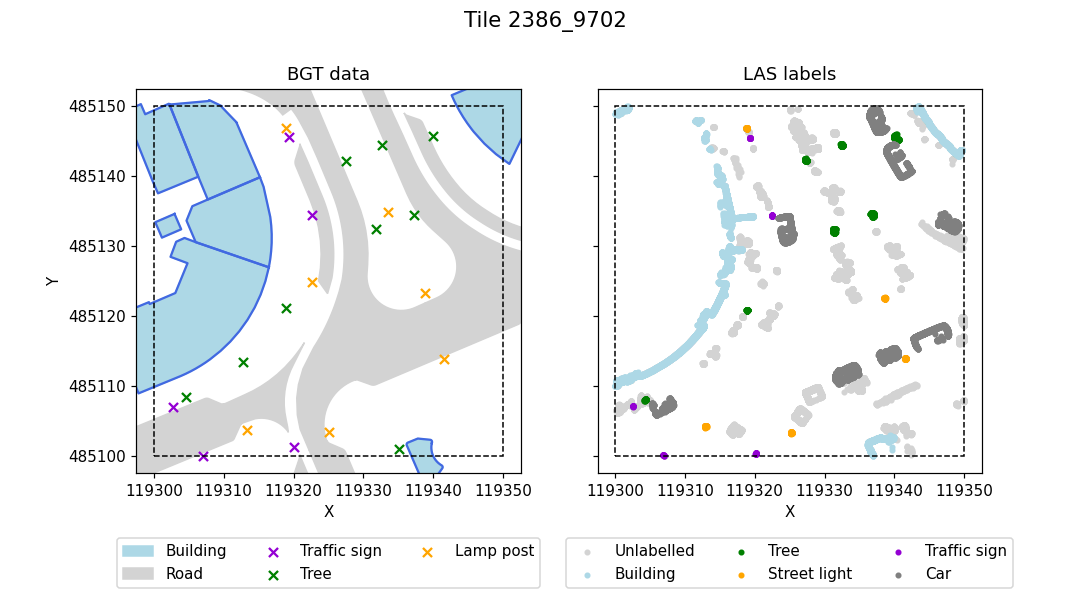
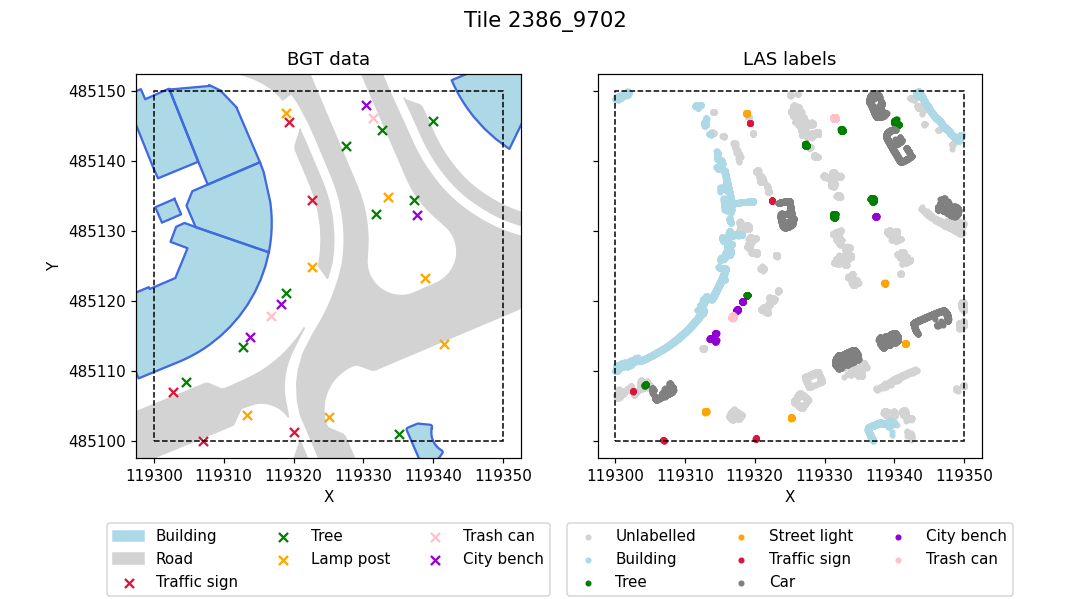
Add street furniture code to notebook 0

diff --git a/src/utils/plot_utils.py b/src/utils/plot_utils.py
@@ -22,20 +22,26 @@ bgt_labels = {'boom': 'Tree',
               'lichtmast': 'Lamp post',
               'verkeersbord': 'Traffic sign',
               'pand': 'Building',
-              'wegdeel': 'Road'}
+              'wegdeel': 'Road',
+              'bank': 'City bench',
+              'afvalbak': 'Trash can'}
 bgt_colors = {'boom': 'green',
               'lichtmast': 'orange',
-              'verkeersbord': 'darkviolet',
+              'verkeersbord': 'crimson',
               'pand': 'lightblue',
               'pand_poly': 'royalblue',
-              'wegdeel': 'lightgrey'}
+              'wegdeel': 'lightgrey',
+              'bank': 'darkviolet',
+              'afvalbak': 'pink'}
 cloud_colors = {'Unlabelled': 'lightgrey',
                 'Ground': 'peru',
                 'Building': 'lightblue',
                 'Tree': 'green',
                 'Street light': 'orange',
-                'Traffic sign': 'darkviolet',
+                'Traffic sign': 'crimson',
                 'Traffic light': 'red',
+                'City bench': 'darkviolet',
+                'Trash can': 'pink',
                 'Car': 'grey',
                 'Noise': 'whitesmoke'}
 
@@ -93,8 +99,9 @@ def plot_cloud_slice(las_file, ahn_reader, plane_height=1.5, hide_noise=False,
         plt.show()
 
 
-def plot_bgt(tilecode, building_file=None, road_file=None, point_file=None,
-             ax=None, title=None, show_legend=True, legend_below=False):
+def plot_bgt(tilecode, building_file=None, road_file=None, pole_file=None,
+             street_furniture_file=None, ax=None, title=None, show_legend=True,
+             legend_below=False):
     padding = 2.5
 
     full_plot = False
@@ -108,14 +115,18 @@ def plot_bgt(tilecode, building_file=None, road_file=None, point_file=None,
 
     buildings = []
     roads = []
-    points = []
+    poles = []
+    street_furniture = []
 
     if building_file:
         buildings = bgt_utils.get_polygons(building_file, tilecode)
     if road_file:
         roads = bgt_utils.get_polygons(road_file, tilecode)
-    if point_file:
-        points = bgt_utils.get_points(point_file, tilecode, padding=padding)
+    if pole_file:
+        poles = bgt_utils.get_points(pole_file, tilecode, padding=padding)
+    if street_furniture_file:
+        street_furniture = bgt_utils.get_points(street_furniture_file,
+                                                tilecode, padding=padding)
 
     ((x_min, y_max), (x_max, y_min)) =\
         las_utils.get_bbox_from_tile_code(tilecode)
@@ -131,7 +142,12 @@ def plot_bgt(tilecode, building_file=None, road_file=None, point_file=None,
         ax.fill(x, y, c=bgt_colors['wegdeel'], label=bgt_labels['wegdeel'],
                 zorder=-1)
 
-    for pt in points:
+    for pt in poles:
+        ax.scatter(pt[1], pt[2],
+                   c=bgt_colors[pt[0]], marker='x', label=bgt_labels[pt[0]],
+                   zorder=1)
+
+    for pt in street_furniture:
         ax.scatter(pt[1], pt[2],
                    c=bgt_colors[pt[0]], marker='x', label=bgt_labels[pt[0]],
                    zorder=1)
@@ -169,18 +185,19 @@ def plot_bgt(tilecode, building_file=None, road_file=None, point_file=None,
 
 def plot_bgt_and_cloudslice(tilecode, las_file, ahn_reader,
                             building_file=None, road_file=None,
-                            point_file=None, plane_height=1.5,
-                            hide_noise=False):
+                            pole_file=None, street_furniture_file=None,
+                            plane_height=1.5, hide_noise=False):
     fig, (ax1, ax2) = plt.subplots(1, 2, figsize=(10, 5.5))
-    plot_bgt(tilecode, building_file, road_file, point_file,
-             title='BGT data', ax=ax1, legend_below=True)
+    plot_bgt(tilecode, building_file, road_file, pole_file,
+             street_furniture_file, title='BGT data', ax=ax1,
+             legend_below=True)
     plot_cloud_slice(las_file, ahn_reader, plane_height=plane_height,
                      hide_noise=hide_noise, title='LAS labels', ax=ax2,
                      legend_below=True)
     ax2.set_yticklabels([])
     ax2.yaxis.label.set_visible(False)
     fig.suptitle(f'Tile {tilecode}', fontsize=14)
-    fig.subplots_adjust(top=0.95)
+    fig.subplots_adjust(top=1)
     plt.show()
 
 
